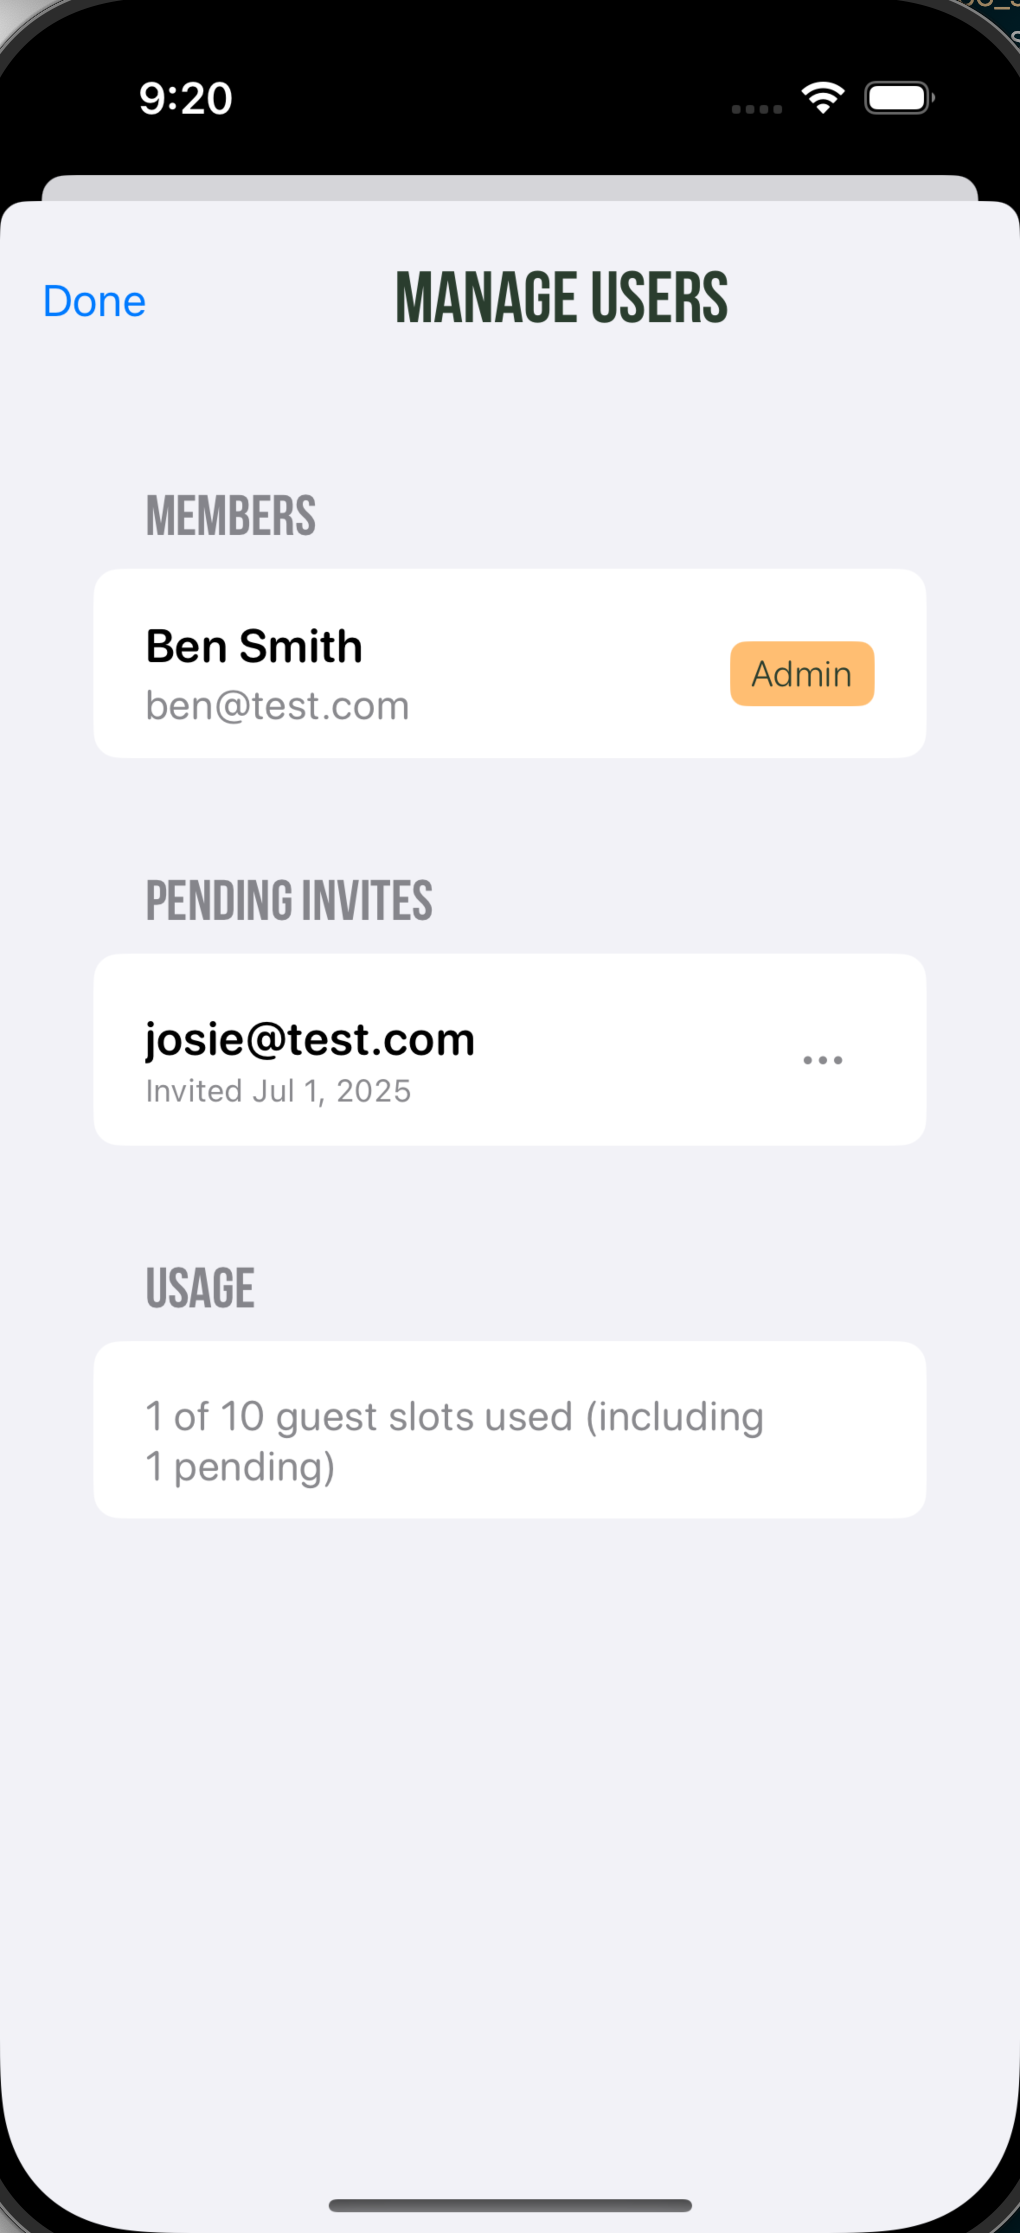
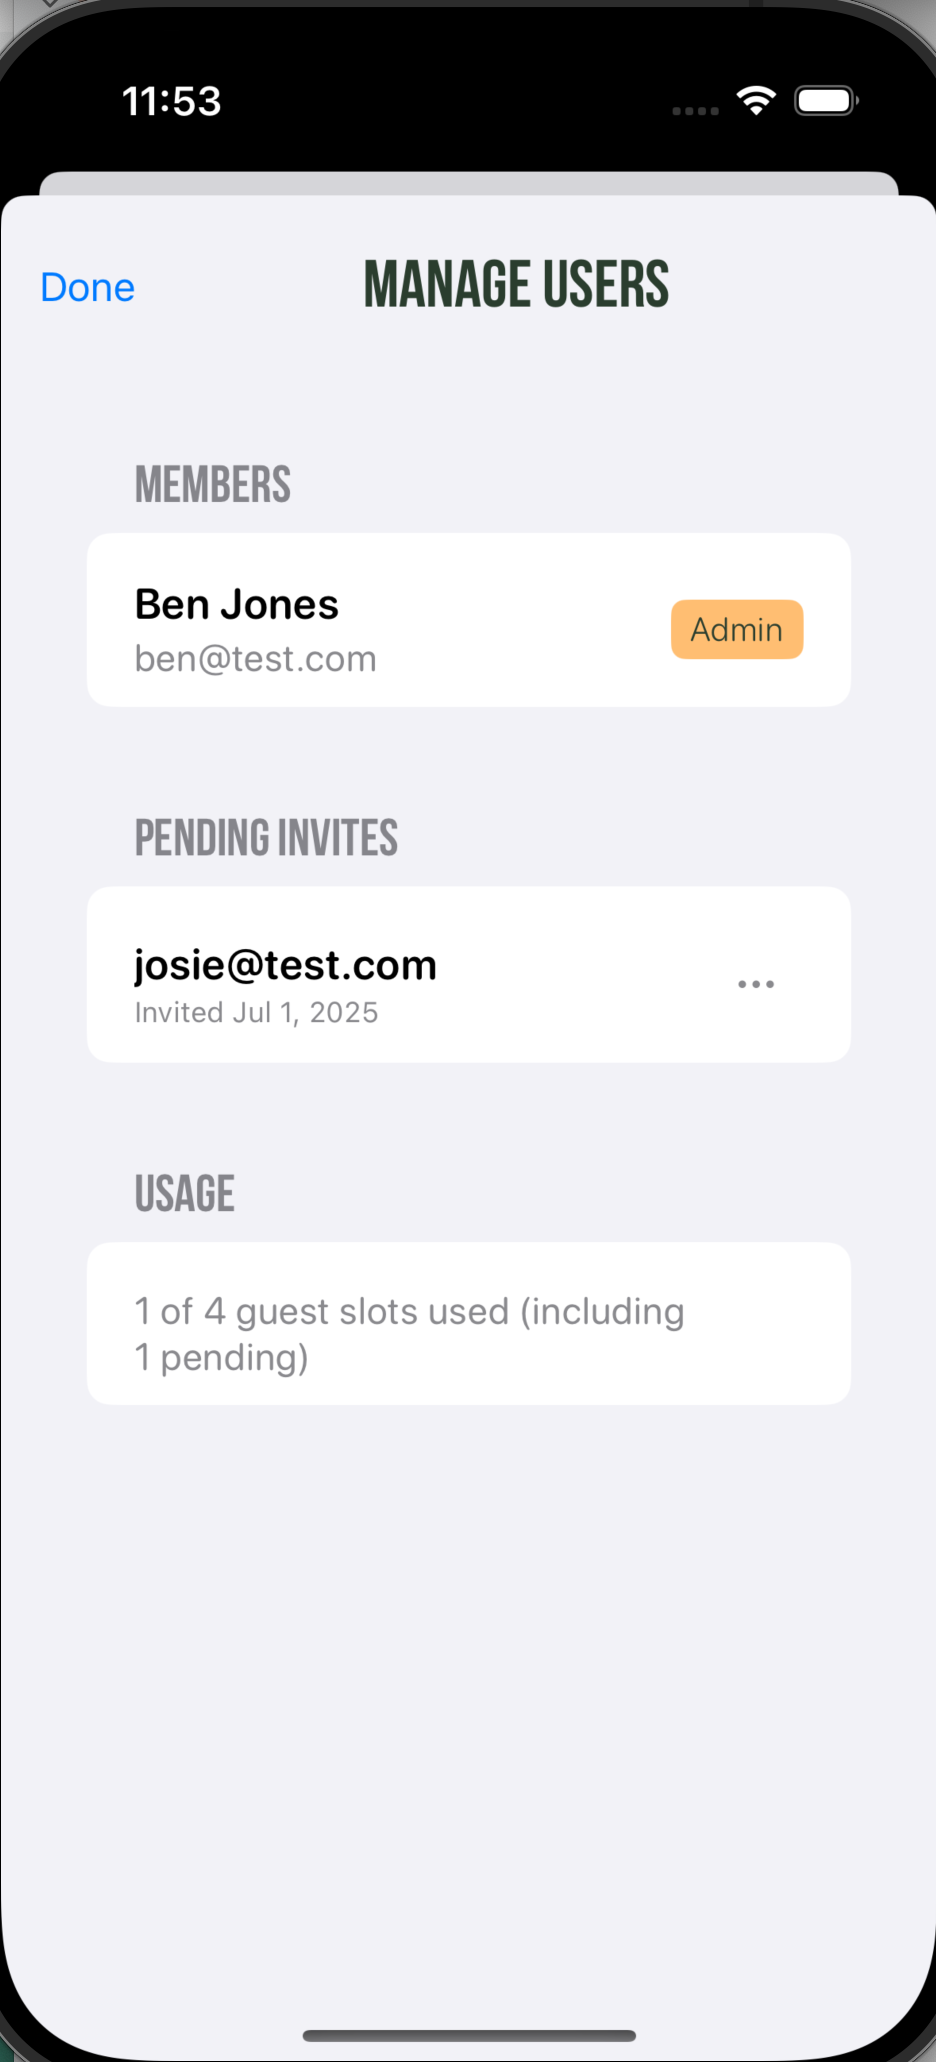
Update: Changed Invite image to reflect 4 guest users

diff --git a/src/components/SimpleCollaboration.tsx b/src/components/SimpleCollaboration.tsx
@@ -9,7 +9,7 @@ export default function SimpleCollaboration() {
 
         <p className="text-lg text-[var(--color-primary)] opacity-80 mb-12 max-w-2xl mx-auto">
           Share lists with family and friends. Everyone can add items and see updates in real time. No complicated
-          permissions - just collaboration that works.
+          permissions - collaboration that just works.
         </p>
 
         {/* Clean, minimal visual treatment */}
